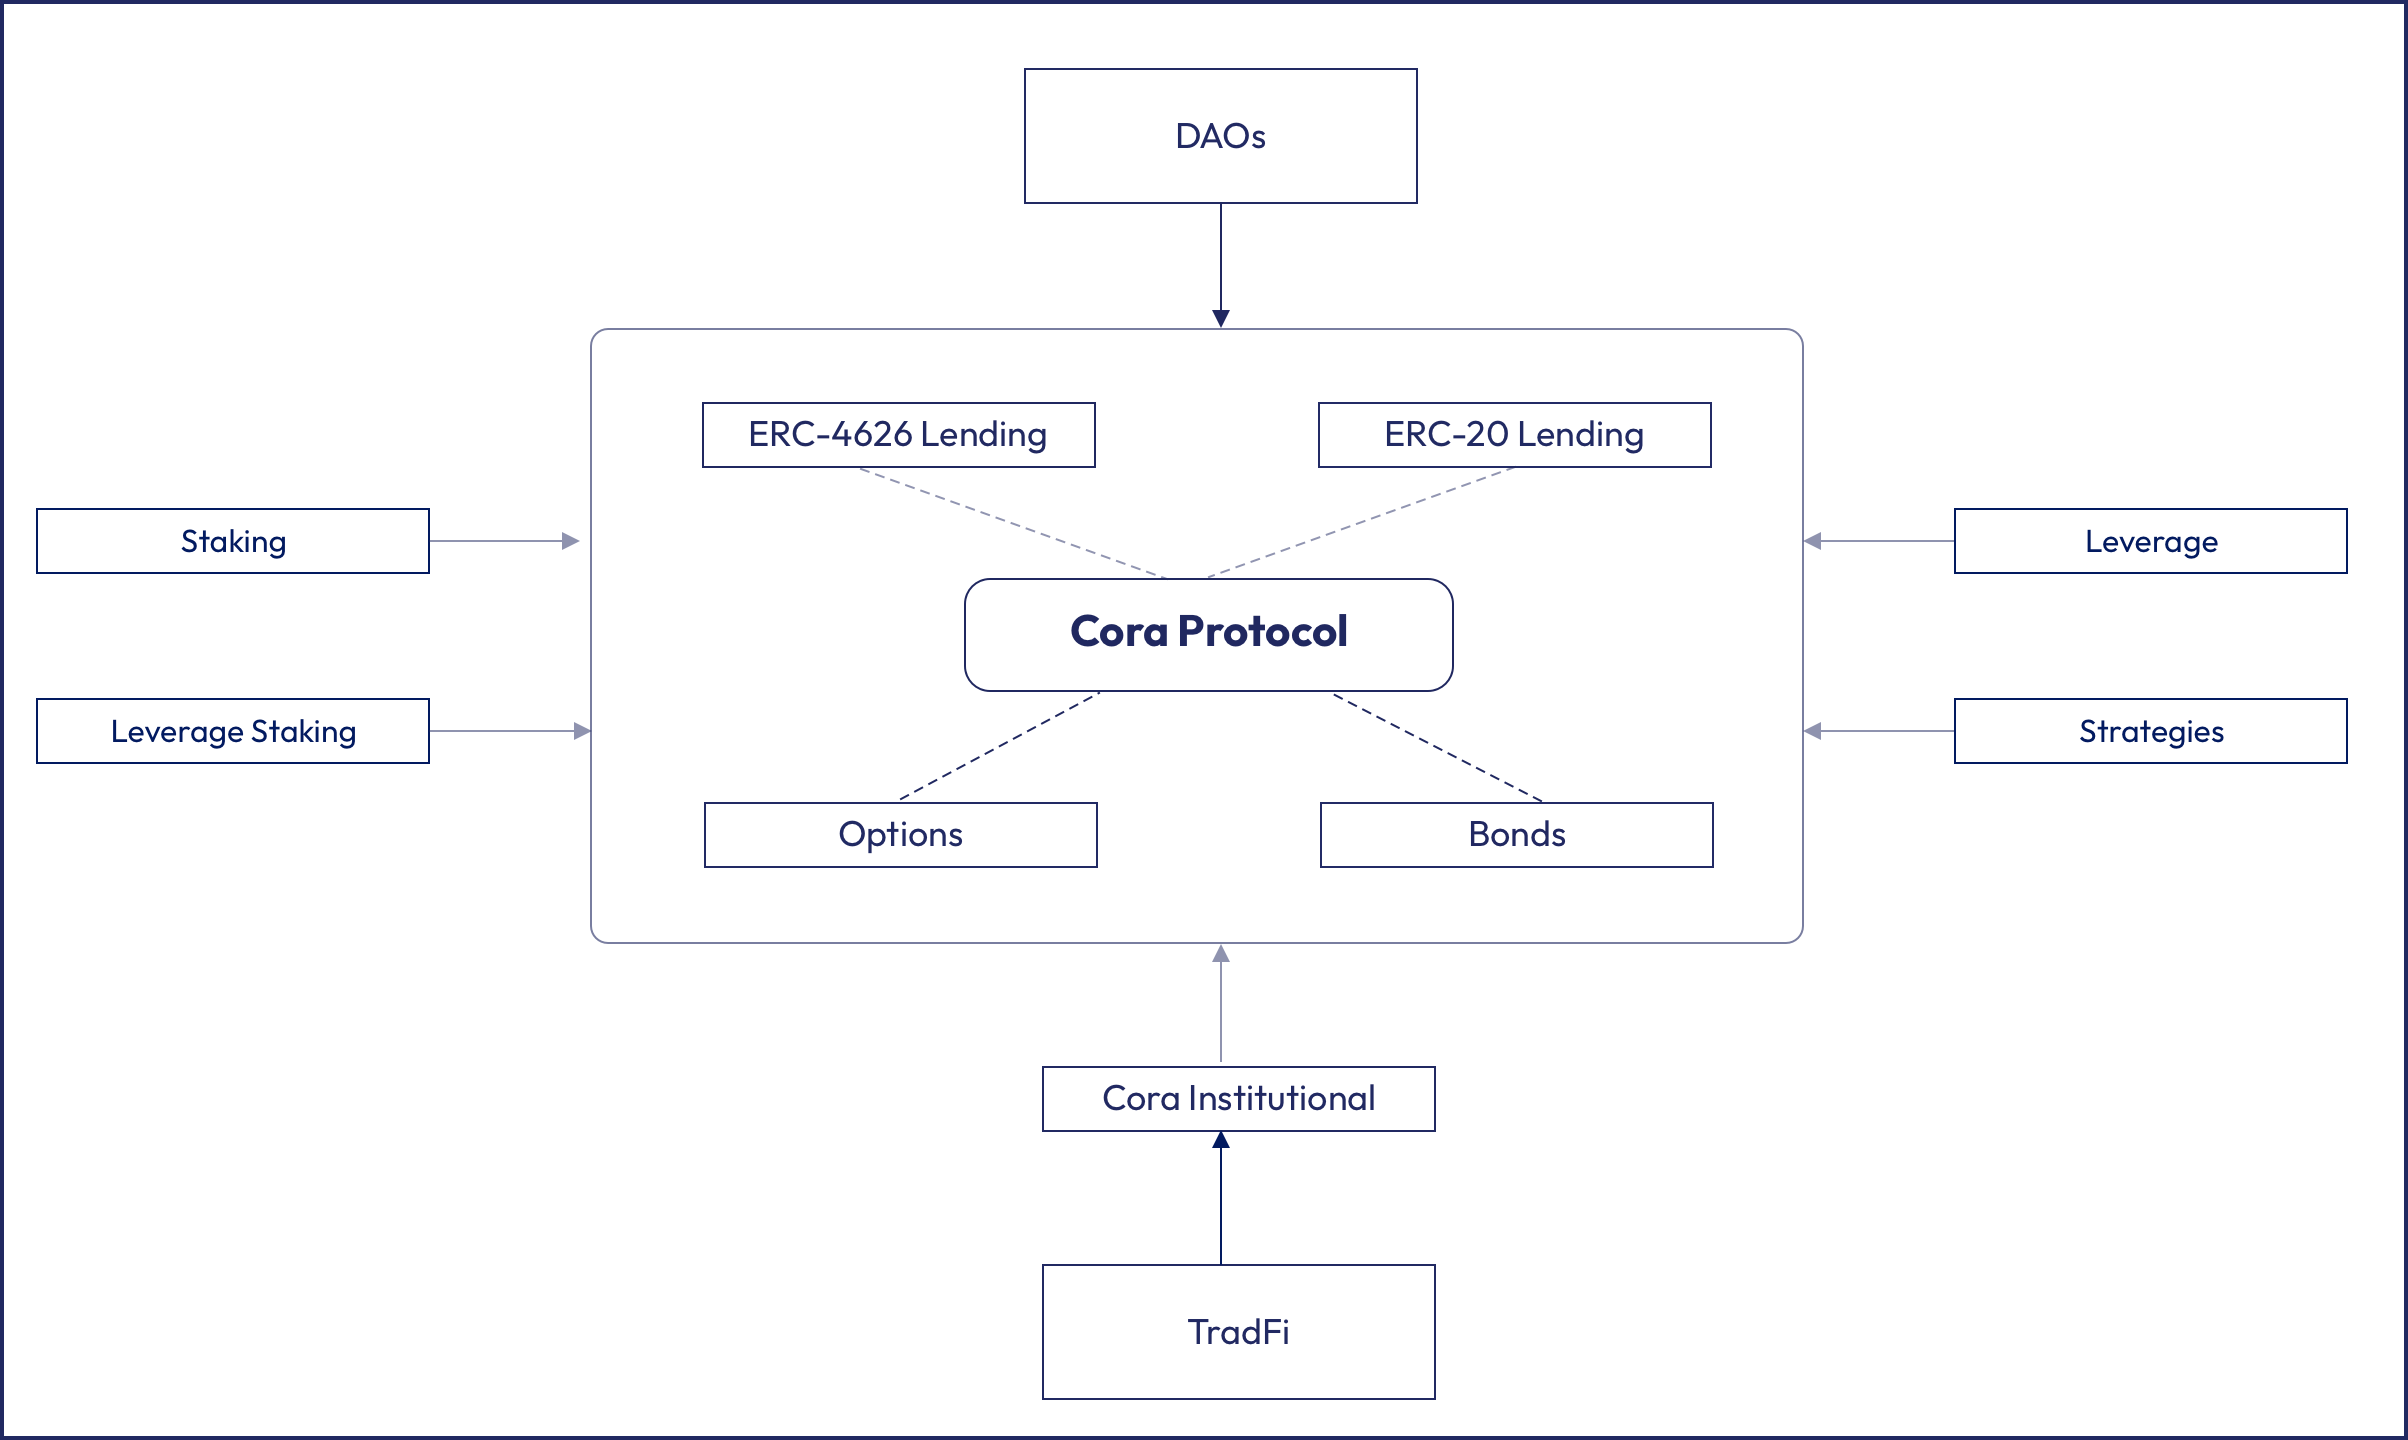
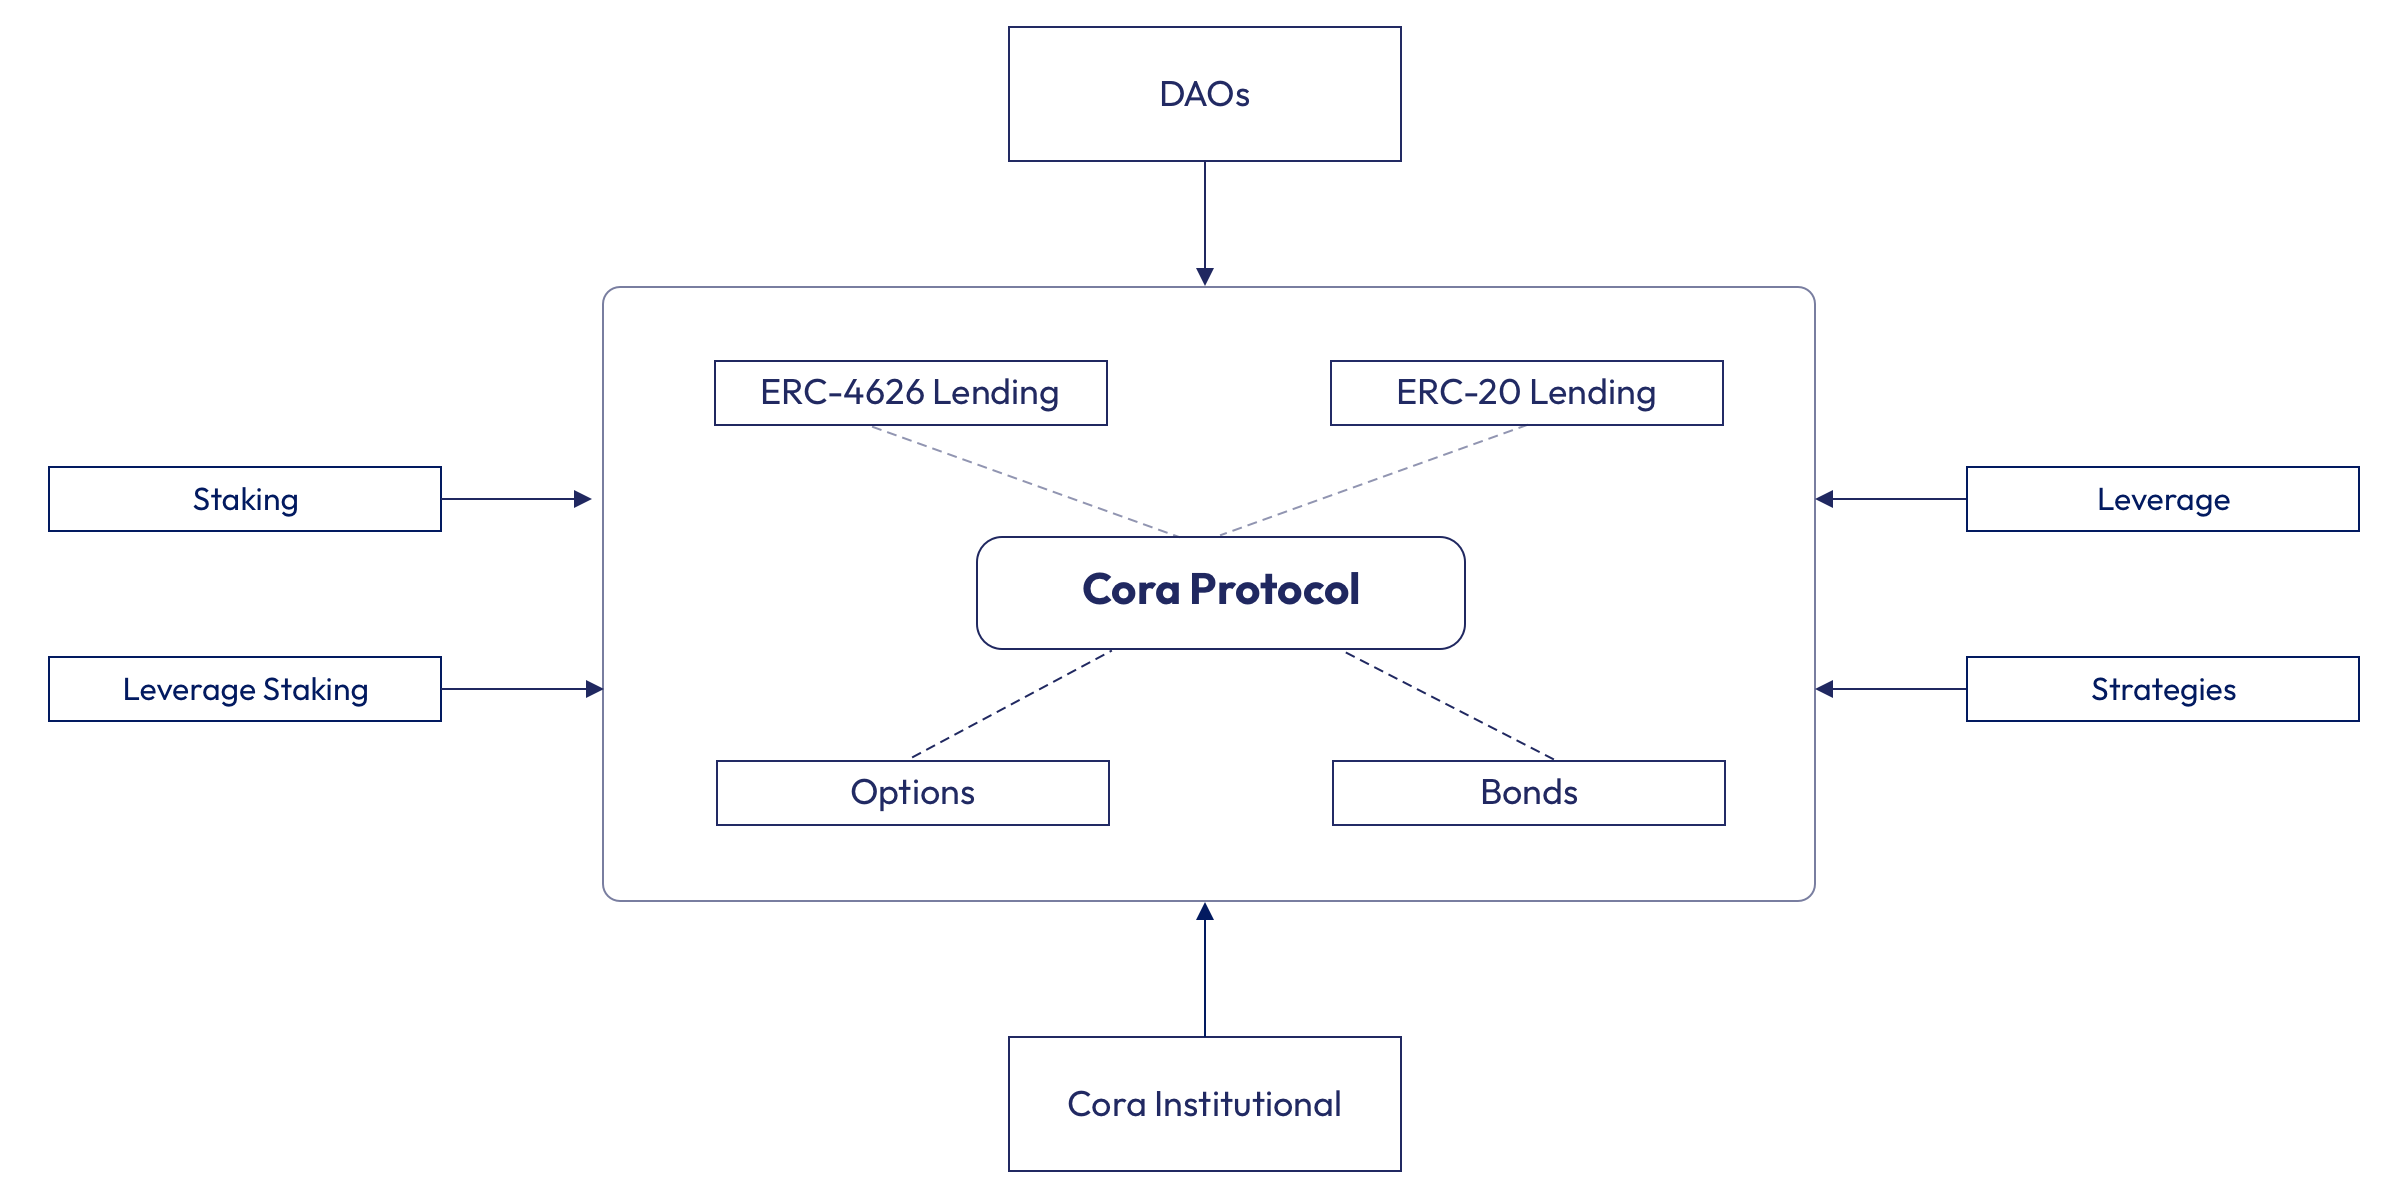
GitBook: [#122] No subject

diff --git a/vision.md b/vision.md
@@ -8,7 +8,7 @@ description: >-
 
 Cora is a new protocol type that can serve as a money lego and fundamental block for future applications that can take advantage of a non-liquidatable base layer.&#x20;
 
-<figure><img src=".gitbook/assets/vision-white@2x.png" alt=""><figcaption><p>Our vision</p></figcaption></figure>
+<figure><img src=".gitbook/assets/vision-white@2x (1).png" alt=""><figcaption><p>Our vision</p></figcaption></figure>
 
 Some of the applications we envision can be built on top of Cora and we plan to develop some of them or support via grants are:
 
